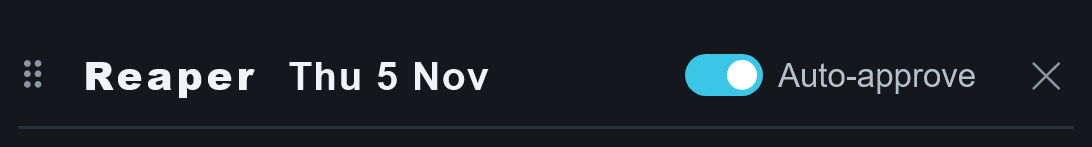
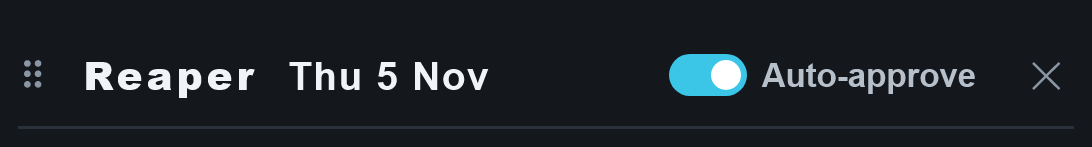
D1681: the Leave War's Auto-approve takes the Several people letters (his "as recommended")
The hold written with [CSS-FONT-INHERIT] is taken out: the switch follows .pp-sw's
written-out letters (the app's, 600; its own 11px kept). Re-walked at 1536 and 402x874,
24/24. Ruling D1681 recorded (leave-war), homes ui-contracts.md and bidpicker.css;
[LW-AUTOAPPROVE-LETTERS] archived; evidence, walk ledger, file map, handoff and the page.

Changed region(s): [[0.5916, 0.3537, 0.9029, 0.6531]]

diff --git a/raptor-port/docs/mock/2026-11-05-font-inherit/index.html b/raptor-port/docs/mock/2026-11-05-font-inherit/index.html
@@ -41,7 +41,7 @@ ul{margin:6px 0;padding-left:20px}
 </div>
 
 <div class="ask">
-<b class="q">One new question: the Leave War's "Auto-approve" switch</b>
+<b class="q">Answered: the Leave War's "Auto-approve" matches (D1681) — built</b>
 <p>While checking every place this style is used, I found it also draws the "Auto-approve" switch at the top of the Leave War's bid window. It wasn't on this page, so I kept it exactly as it looks today. Should it match the window's title (bold, the app's letters), or stay as it is?</p>
 <div class="pair"><figure><figcaption>Today (kept for now)</figcaption><img src="img/pc1536-lw-autoapprove-today.png" alt="Auto-approve today"></figure><figure><figcaption class="fix">If it matched</figcaption><img src="img/pc1536-lw-autoapprove-match.png" alt="Auto-approve matched"></figure></div>
 <p><b>My recommendation: match.</b> It then reads like the date beside it and like "Several people" on the Inputs page, which it was made to copy. It only gets 4px wider.</p>

diff --git a/raptor-port/src/leavewar/ui/bidpicker.css b/raptor-port/src/leavewar/ui/bidpicker.css
@@ -1909,9 +1909,7 @@
 /* "APPROVE WHAT I ENTER" AS THE APP'S SWITCH (change 8, D1302): the Inputs window's "Several people" switch, sized to the
    title bar's small words, standing before ✕ */
 .bidsheet-hd .bp-sw { margin-left: auto; min-height: 0; border: 0; background: none; padding: 0; gap: 5px; font-size: 11px; color: var(--ink-2); align-self: center; }
-/* held as it looked before [CSS-FONT-INHERIT] (D1680): `.pp-sw` now sets the app's letters at 600, which this switch
-   shares; that change to the Leave War's Auto-approve was not on his drawing, so its look is put to him first (D1625). */
-.bidsheet-hd .bp-sw { font-family: 'Inter Tight', sans-serif; font-weight: 400; }
+/* its letters are `.pp-sw`'s, the app's at 600, as the title beside it (owner D1681, 5 Nov 26); only the size is its own */
 .bidsheet-hd .bp-sw + .x { margin-left: 4px; }
 .bidsheet-hd .bp-sw:focus-visible { outline: 2px solid var(--accent); outline-offset: 2px; border-radius: 999px; }
 

diff --git a/DECISIONS.md b/DECISIONS.md
@@ -70,7 +70,7 @@ ruling, or an explicit no. **Not** ordinary task instructions ("run the tests", 
 | How we work | `.claude/rules/decisions/how-we-work.md` | in EVERY session | D1640, D1625, D1613, D1594, D1587, D1580, D1572, D1571, D1570, D1566, D1557, D1556, D1554, D1551, D1540, D1539, D1537, D1536, D1535, D1534, D1533, D1532, D1531, D1530, D1508, D1496, D1495, D1494, D1478, D1443, D1426, D1424, D1417, D1416, D1415, D1411, D1410, D1409, D1408, D1407, D1363, D1297, D1104, D1281, D1273, D1271, D1237, D1222, D1195, D1124, D1097, D1093, D1091, D1090, D1089, D1088, D1087, D1086, D1033, D1024, D994, D991, D976, D975, D974, D973, D972, D971, D970, D969, D942, D941, D921, D906, D905, D904, D903, D902, D886, D885, D884, D878, D874, D872, D871, D870, D869, D868, D867, D853, D852, D847, D846, D835, D832, D822, D821, D820, D819, D813, D812, D808, D802, D811, D790, D787, D785, D775, D774, D766, D765, D761, D754, D667, D625, D623, D611, D610, D608, D607, D602, D601, D596, D595, D590, D588, D568, D541, D499, D495, D493, D491, D490, D489, D487, D486, D485, D473, D466, D465, D453, D353, D351, D350, D390, D343, D302, D228, D203, D201, D106, D90, D162, D148, D147, D144, D143, D141, D140, D138, D137, D136, D151, D89, D87, D86, D84, D78, D73, D72, D70, D69, D68, D67, D63, D62, D60, D59, D58, D57, D56, D54, D53, D29, D23, D22, D17, D16, D14, D13, D12, D11, D10, D9, D8, D7, D6, D5, D4 |
 | Tracker | `.claude/rules/decisions/tracker.md` | when a Tracker file is read (its code, docs, scripts, evidence) | D1564, D1538, D1406, D1405, D1171, D1170, D1136, D1135, D1132, D1018, D1015, D1014, D1007, D1006, D1005, D1004, D1003, D1002, D992, D989, D988, D987, D986, D985, D984, D983, D982, D981, D980, D979, D924, D922, D899, D801, D566, D564, D560, D474, D464, D462, D463, D377, D376, D375, D374, D373, D372, D371, D370, D191, D158, D157, D134, D132, D131, D130, D129, D128, D127, D126, D124, D123, D122, D121, D120, D64 |
 | People & accounts | `.claude/rules/decisions/people-accounts.md` | when an accounts, sign-in, Admin → Users, Quals, one-door or posting file is read (D390) | D1547, D1546, D1510, D1108, D1105, D1102, D1101, D1100, D1129, D1128, D1110, D993, D937, D935, D329, D328, D327, D326, D325, D323, D322, D321, D320, D310, D309, D308, D307, D306, D304, D303, D300, D299, D298, D297, D296, D295, D294, D293, D292, D290, D289, D288, D287, D286, D285, D284, D283, D282, D281, D280, D229, D227, D226, D225, D224, D223, D222, D221, D220, D219, D216, D215, D214, D213, D211, D204, D200, D218, D166, D165, D149 |
-| Leave War | `.claude/rules/decisions/leave-war.md` | when a Leave War file is read (its code, docs, e2e, evidence) | D1639, D1634, D1630, D1629, D1584, D1569, D1568, D1565, D1555, D1563, D1561, D1559, D1553, D1552, D1550, D1549, D1548, D1545, D1544, D1543, D1542, D1541, D1525, D1524, D1521, D1520, D1519, D1517, D1516, D1515, D1514, D1513, D1512, D1511, D1506, D1505, D1504, D1503, D1502, D1501, D1500, D1499, D1498, D1497, D1493, D1492, D1491, D1490, D1489, D1488, D1487, D1486, D1485, D1484, D1483, D1482, D1481, D1480, D1479, D1477, D1476, D1475, D1474, D1473, D1472, D1471, D1470, D1469, D1468, D1467, D1466, D1465, D1464, D1463, D1462, D1461, D1460, D1449, D1448, D1447, D1446, D1445, D1444, D1441, D1440, D1439, D1438, D1437, D1435, D1434, D1433, D1432, D1431, D1430, D1429, D1428, D1427, D1423, D1422, D1421, D1420, D1404, D1401, D1400, D1399, D1398, D1397, D1395, D1394, D1393, D1392, D1391, D1390, D1389, D1388, D1387, D1382, D1381, D1380, D1379, D1378, D1375, D1371, D1370, D1365, D1364, D1362, D1361, D1360, D1359, D1358, D1357, D1356, D1355, D1354, D1353, D1352, D1351, D1350, D1349, D1348, D1347, D1346, D1345, D1344, D1343, D1341, D1340, D1339, D1334, D1333, D1332, D1331, D1330, D1329, D1328, D1327, D1326, D1323, D1321, D1322, D1319, D1320, D1318, D1316, D1317, D1315, D1314, D1313, D1312, D1311, D1309, D1308, D1307, D1306, D1302, D1301, D1299, D1296, D1295, D1294, D1292, D1291, D1290, D1289, D1288, D1287, D1286, D1285, D1284, D1283, D1282, D1279, D1278, D1277, D1276, D1275, D1274, D1272, D1270, D1269, D1268, D1267, D1266, D1265, D1264, D1263, D1259, D1258, D1257, D1256, D1255, D1254, D1253, D1252, D1251, D1250, D1249, D1248, D1247, D1246, D1245, D1244, D1243, D1242, D1241, D1240, D1239, D1238, D1236, D1235, D1234, D1233, D1232, D1231, D1230, D1229, D1228, D1227, D1226, D1225, D1224, D1223, D1221, D1220, D1219, D1218, D1217, D1216, D1215, D1214, D1213, D1212, D1211, D1210, D1209, D1208, D1206, D1205, D1204, D1203, D1202, D1201, D1200, D1199, D1198, D1197, D1196, D1194, D1193, D1192, D1191, D1190, D1189, D1188, D1187, D1186, D1185, D1184, D1183, D1182, D1181, D1180, D1178, D1177, D1176, D1175, D1174, D1173, D1172, D1169, D1168, D1167, D1166, D1165, D1164, D1163, D1162, D1161, D1160, D1159, D1158, D1157, D1155, D1154, D1153, D1152, D1151, D1150, D1149, D1148, D1147, D1146, D1145, D1144, D1143, D1142, D1141, D1140, D1117, D1019, D1016, D1001, D1000, D998, D892, D891, D890, D883, D882, D881, D827, D823, D805, D679, D678, D677, D676, D674, D673, D670, D669, D461, D460, D418, D352, D335, D334, D333, D332, D331, D266, D265, D264, D262, D160, D159 |
+| Leave War | `.claude/rules/decisions/leave-war.md` | when a Leave War file is read (its code, docs, e2e, evidence) | D1681, D1639, D1634, D1630, D1629, D1584, D1569, D1568, D1565, D1555, D1563, D1561, D1559, D1553, D1552, D1550, D1549, D1548, D1545, D1544, D1543, D1542, D1541, D1525, D1524, D1521, D1520, D1519, D1517, D1516, D1515, D1514, D1513, D1512, D1511, D1506, D1505, D1504, D1503, D1502, D1501, D1500, D1499, D1498, D1497, D1493, D1492, D1491, D1490, D1489, D1488, D1487, D1486, D1485, D1484, D1483, D1482, D1481, D1480, D1479, D1477, D1476, D1475, D1474, D1473, D1472, D1471, D1470, D1469, D1468, D1467, D1466, D1465, D1464, D1463, D1462, D1461, D1460, D1449, D1448, D1447, D1446, D1445, D1444, D1441, D1440, D1439, D1438, D1437, D1435, D1434, D1433, D1432, D1431, D1430, D1429, D1428, D1427, D1423, D1422, D1421, D1420, D1404, D1401, D1400, D1399, D1398, D1397, D1395, D1394, D1393, D1392, D1391, D1390, D1389, D1388, D1387, D1382, D1381, D1380, D1379, D1378, D1375, D1371, D1370, D1365, D1364, D1362, D1361, D1360, D1359, D1358, D1357, D1356, D1355, D1354, D1353, D1352, D1351, D1350, D1349, D1348, D1347, D1346, D1345, D1344, D1343, D1341, D1340, D1339, D1334, D1333, D1332, D1331, D1330, D1329, D1328, D1327, D1326, D1323, D1321, D1322, D1319, D1320, D1318, D1316, D1317, D1315, D1314, D1313, D1312, D1311, D1309, D1308, D1307, D1306, D1302, D1301, D1299, D1296, D1295, D1294, D1292, D1291, D1290, D1289, D1288, D1287, D1286, D1285, D1284, D1283, D1282, D1279, D1278, D1277, D1276, D1275, D1274, D1272, D1270, D1269, D1268, D1267, D1266, D1265, D1264, D1263, D1259, D1258, D1257, D1256, D1255, D1254, D1253, D1252, D1251, D1250, D1249, D1248, D1247, D1246, D1245, D1244, D1243, D1242, D1241, D1240, D1239, D1238, D1236, D1235, D1234, D1233, D1232, D1231, D1230, D1229, D1228, D1227, D1226, D1225, D1224, D1223, D1221, D1220, D1219, D1218, D1217, D1216, D1215, D1214, D1213, D1212, D1211, D1210, D1209, D1208, D1206, D1205, D1204, D1203, D1202, D1201, D1200, D1199, D1198, D1197, D1196, D1194, D1193, D1192, D1191, D1190, D1189, D1188, D1187, D1186, D1185, D1184, D1183, D1182, D1181, D1180, D1178, D1177, D1176, D1175, D1174, D1173, D1172, D1169, D1168, D1167, D1166, D1165, D1164, D1163, D1162, D1161, D1160, D1159, D1158, D1157, D1155, D1154, D1153, D1152, D1151, D1150, D1149, D1148, D1147, D1146, D1145, D1144, D1143, D1142, D1141, D1140, D1117, D1019, D1016, D1001, D1000, D998, D892, D891, D890, D883, D882, D881, D827, D823, D805, D679, D678, D677, D676, D674, D673, D670, D669, D461, D460, D418, D352, D335, D334, D333, D332, D331, D266, D265, D264, D262, D160, D159 |
 | Scheduler & amendments | `.claude/rules/decisions/scheduler.md` | when a scheduler, board, engine, amendment or storage file is read | D1644, D1621, D1620, D1592, D1589, D1588, D1586, D1577, D1573, D1529, D1528, D1527, D1526, D1522, D1442, D1412, D1383, D1107, D1106, D1099, D1098, D1131, D1130, D1121, D1120, D1119, D1118, D1116, D1115, D1114, D1113, D1112, D1111, D1109, D1085, D1084, D1083, D1081, D1080, D1067, D1066, D1065, D1064, D1063, D1062, D1061, D1060, D1048, D1047, D1046, D1045, D1044, D1043, D1042, D1041, D1040, D1039, D1038, D1037, D1036, D1035, D1034, D1032, D1031, D1030, D1029, D1028, D1027, D1026, D1021, D1020, D1017, D1013, D1012, D1011, D1010, D1009, D997, D995, D958, D957, D955, D950, D949, D947, D945, D940, D938, D936, D933, D932, D931, D929, D928, D925, D901, D877, D860, D845, D844, D842, D841, D840, D839, D838, D837, D836, D834, D833, D831, D830, D828, D825, D824, D815, D809, D807, D806, D800, D797, D796, D776, D769, D778, D767, D762, D760, D759, D757, D756, D755, D753, D751, D748, D747, D743, D742, D740, D739, D737, D736, D735, D734, D733, D731, D717, D714, D713, D711, D710, D706, D703, D702, D686, D682, D716, D668, D665, D663, D661, D660, D645, D644, D642, D641, D640, D637, D636, D634, D605, D603, D600, D599, D598, D597, D594, D562, D561, D558, D555, D554, D553, D551, D550, D548, D546, D544, D537, D535, D532, D531, D530, D529, D527, D526, D525, D524, D523, D522, D521, D520, D519, D518, D517, D516, D514, D513, D512, D511, D510, D509, D507, D506, D505, D504, D503, D502, D501, D500, D498, D497, D488, D482, D481, D479, D478, D475, D472, D471, D469, D454, D452, D451, D450, D356, D355, D367, D363, D362, D361, D360, D346, D345, D344, D340, D339, D338, D337, D279, D278, D277, D276, D275, D274, D272, D271, D270, D263, D212, D189, D188, D187, D186, D185, D184, D183, D179, D178, D177, D176, D175, D174, D172, D171, D170, D169, D168, D167, D119, D118, D117, D116, D114, D113, D111, D110, D109, D107, D105, D103, D102, D101, D100, D99, D98, D97, D96, D95, D94, D93, D92, D91, D161, D77, D66, D65, D51, D50, D47, D45, D44, D41, D40, D39, D38, D37, D36, D33, D27 |
 | The Inputs pages | `.claude/rules/decisions/inputs.md` | when a file of the Inputs list or calendar, the SANS calendar, the Calendar window, or an input's own window or card is read | D1624, D1623, D1622, D1585, D1583, D1582, D1581, D1578, D1562, D1560, D1413, D1396, D1386, D1385, D1384, D1377, D1376, D1374, D1373, D1372, D1369, D1368, D1367, D1310, D1305, D1304, D1300, D1298, D1293, D1280, D1179, D1139, D1137, D1125, D1123, D1096, D1095, D1025, D1023, D1022, D999, D996, D977, D968, D967, D965, D963, D961, D960, D959, D953, D952, D948, D927, D920, D919, D917, D916, D910, D909, D908, D900, D897, D893, D879, D861, D854, D851, D849, D848, D795, D792, D786, D777, D773, D771, D770, D768, D763, D732, D729, D728, D727, D725, D724, D723, D722, D721, D720, D719, D712, D709, D707, D705, D704, D701, D698, D697, D696, D695, D694, D693, D692, D691, D689, D688, D687, D685, D684, D683, D681, D675, D671, D664, D659, D658, D657, D656, D655, D653, D652, D651, D650, D649, D648, D647, D646, D639, D638, D635, D633, D632, D631, D630, D629, D628, D627, D626, D624, D622, D621, D620, D619, D618, D617, D584, D583, D582, D581, D577, D576, D574, D572, D570, D569, D547, D364 |
 | OIL | `.claude/rules/decisions/oil.md` | when an OIL, Leave War, placeholder-puck or publishing file is read | D1579, D1094, D1008, D978, D923, D865, D863, D862, D818, D816, D814, D804, D793, D783, D782, D781, D606, D592, D591, D470, D402, D401, D400, D261, D260, D163, D142, D82, D81, D80, D79, D52, D49, D48, D43, D42, D35, D32, D31, D28, D26, D25, D24, D21, D19, D15, D2, D1 |

diff --git a/raptor-port/docs/walk-ledger.md b/raptor-port/docs/walk-ledger.md
@@ -357,4 +357,4 @@ record informs the choice, it does not make it.
 | 2026-11-04 | The page names beside TALON, ☰ where they do not fit, a phone held sideways always ☰ ([TOPBAR-NAMES-BESIDE-TALON] D1641–D1643; `claude/topbar-names-build`, pull request 634) | C, E | WALK; the host alone, one script (S1–S10: six desktop widths × nine pages, the phone sideways in Chromium and WebKit with a picture after each tap, upright, an iPad, what is held under the bar, the role switch, the keys, live resizes, wider letters calibrated), 138 checks; two break tests red | not counted | 0 | 0 | 3 (the walk script's own: the passing "Saving…" note counted as a row twice; Quals' scrolling heading measured in place of its frozen copy) | the mock-up, before the build: on this PC's letters the names already fit at every desktop size — only his iPhone's wider letters wrap them, so the build measures the bar | `docs/handpass/2026-11-04-topbar-names.md` |
 | 2026-11-05 | A member on Edit Schedule and a guest's saves ([MEMBER-EDITPAGE-CHECK] [GUEST-SAVE-WARNING]; `claude/member-guest-checks`, the night's job 3) | B, A | FULL; the host's scripted probe in two rounds (press everything with every storage write counted; round 2 a worklist with the admin's positive control, after the code read found round 1 short), one Sonnet walker for what a person sees at both sizes with the plain-user rounds of a member and a guest, the failed save, and a re-walk of the fix on its own build | not counted | 2 (a stranger's failed access request is told it was sent — parked Q1; a member unticks his own Scheduler appointment — parked Q2) | 0 | 5 (the walker's: wrong selectors, a leftover window, a pick equal to the value, the wrong input edited; the host's: an Undo loop that never ended) | the security read: a waiting person's sign-in name in the change log every member reads — fixed red-first; the code read: 8 gaps in the probe's evidence, answered by round 2 | `handpass/2026-11-05-member-guest.md` |
 | 2026-11-05 | The member / guest build of his morning answers ([ACCESS-WAIT-LOOK] [SAVEBAND-LOOK] [GUEST-SAVE-WARNING] [MEMBER-SCHED-TICK]; `claude/member-guest-checks`) | E, B, H | FULL with a security read; the host's scripted look beside the drawings (12 checks), the drawing check (two part lists, four records), a fresh Opus scenario design (20 scenarios), two Sonnet walkers (A: the access screens and the guest page; B: the band in the app, the OIL bar, Quals), the fixes re-walked by the walkers' own scripts | not counted | 4 (a phone on its side: the request form's and the pass's top out of reach; a 14-letter callsign broken mid-name; the OIL bar's Answer OIL off the screen on the board's Desktop layout panned — older; the pass's spacing off its drawing — the drawing check) | 1 (the pass ticks Request sent under a failed save — put to him) | 4 (a re-sign-in landing on the guest page, as built; the guest page's Saving note; the OIL tracker's inset band; the cold start not reachable) | the code read: a stale contract, a fit that missed a width change, three untrue comments; the security read: none | `handpass/2026-11-05-member-guest-build.md` |
-| 2026-11-05 | Nine dropped font lines written out, eight places on the schedule and the Inputs page ([CSS-FONT-INHERIT] D1680; `claude/css-font-inherit-look`) | E | WALK; the host alone, one script (five windows the drawing drew, the schedule's door to the input window, a plain-user round, the Leave War's switch held), 24 checks at 1536 and an iPhone's 402 | not counted | 1 (the roll-call: the Leave War's Auto-approve shares the style and was not on his drawing — held, put to him) | 0 | 2 (the walk script's own: the schedule's window frame; a reason set without typing did not reach the save) | the drawing's measures re-measured on the build, all equal | `handpass/2026-11-05-font-inherit.md` |
+| 2026-11-05 | Nine dropped font lines written out, eight places on the schedule and the Inputs page ([CSS-FONT-INHERIT] D1680; `claude/css-font-inherit-look`) | E | WALK; the host alone, one script (five windows the drawing drew, the schedule's door to the input window, a plain-user round, the Leave War's switch held), 24 checks at 1536 and an iPhone's 402 | not counted | 1 (the roll-call: the Leave War's Auto-approve shares the style and was not on his drawing — held, put to him; matched on his D1681, re-walked) | 0 | 2 (the walk script's own: the schedule's window frame; a reason set without typing did not reach the save) | the drawing's measures re-measured on the build, all equal | `handpass/2026-11-05-font-inherit.md` |

diff --git a/OUTSTANDING.md b/OUTSTANDING.md
@@ -100,7 +100,6 @@ Every item was checked against git and the code on 18 Oct 26. **Re-order this li
 - [INP-CAL-CLICK-BEHIND-NEW] — on the Inputs and SANS calendars a date clicked behind a new input's window lights as picked while the window keeps its date (his D1298); his choice of what it does first.
 - [LW-READS-OWED-1024] — left: design lessons 49, 50 and 52 reworded to what he said (the fix worded in the reader's file), and D1297's sweep of earlier evidence sheets with its fresh reader.
 - [CSS-FONT-INHERIT] — BUILT 5 Nov 26 as drawn (D1680) on `claude/css-font-inherit-look`: the nine font lines written out, a test that refuses the form; walked at both sizes; waiting on his look and "merge live", then archive.
-- [LW-AUTOAPPROVE-LETTERS] — the Leave War bid windows' Auto-approve shares the "Several people" look; [CSS-FONT-INHERIT] would have made its words the app's letters, semi-bold — held as it was until he picks (pictured, a question to him).
 - [CSS-WRAPPER-GUARD] — the other half of [CSS-FONT-INHERIT]'s guard: a check that no rule is lost after a page's wrapper closes; the bid sheet's stylesheet has about 200 unscoped rules after its wrapper, apparently on purpose, so the check needs its rule worked out first.
 - [LW-BID-BUBBLE] — the bubble after a bid: his question, waiting (the pick-look page's Q3); redrawn with D1313, D1314 in place before it is put to him again.
 - [INP-CARD-COLUMNS] — on the Inputs list's cards LATE, "No document" and the hours in three columns, card to card (his D1305, pick A — D1310): to build with the next Inputs batch.
@@ -2225,18 +2224,10 @@ typewriter face — fixed there, 0cca37160). Eight more, older: `raptor-port/src
 the weight meant — a look change on screens he uses daily, so a before / after picture first (D541). **Place:** with the
 next Inputs or schedule batch (D490).
 **Drawn 5 Nov 26** (nine lines: eight places on screen and one dead rule, `.ic-pop input`): `raptor-port/docs/mock/2026-11-05-font-inherit/`, put to him on https://claude.ai/artifact/LJLWFHi7gUBJ24mmmWBCS1 — waiting on his answer.
-**Built 5 Nov 26** on `claude/css-font-inherit-look` (his D1680, "build it as drawn"): the nine lines written out; the font half of the guard is `raptor-port/src/ui/font-inherit-css.test.ts` (red on `main`, green on the fix); the wrapper half is filed apart, [CSS-WRAPPER-GUARD]; the Leave War's Auto-approve, which shares `.pp-sw`, held as it was ([LW-AUTOAPPROVE-LETTERS]). Walk: `raptor-port/docs/handpass/2026-11-05-font-inherit.md`, 24/24.
+**Built 5 Nov 26** on `claude/css-font-inherit-look` (his D1680, "build it as drawn"): the nine lines written out; the font half of the guard is `raptor-port/src/ui/font-inherit-css.test.ts` (red on `main`, green on the fix); the wrapper half is filed apart, [CSS-WRAPPER-GUARD]; the Leave War's Auto-approve, which shares `.pp-sw`, held, then matched on his "as recommended" (D1681, [LW-AUTOAPPROVE-LETTERS] closed). Walk: `raptor-port/docs/handpass/2026-11-05-font-inherit.md`, 24/24.
 **A guard with it (691, 704):** a structural test over the stylesheets — no rule after a scoping wrapper's close in a
 file that wraps itself (`#page-leavewar { … }`; a block appended after it lost silently, twice, 24 and 25 Oct 26), and no
 `font:` shorthand naming `inherit`. A rule that only a comment states is broken again.
-### [LW-AUTOAPPROVE-LETTERS] The Leave War's Auto-approve letters (found 5 Nov 26, [CSS-FONT-INHERIT]'s roll-call)
-The admin's Auto-approve switch at the top of the Leave War's bid windows (BidPicker, SelectSheet) is drawn with the Inputs
-window's "Several people" style (`.pp-sw`, its own `.bidsheet-hd .bp-sw` beside it). Written out, that style's letters would
-have made Auto-approve the app's letters at 600 (today a fallback face, 400; 97 → 101 wide). Not on his drawing, so it is held
-as it was in `raptor-port/src/leavewar/ui/bidpicker.css` (D1625). **Question to him:** match the title's letters (semi-bold,
-as the bid window's date beside it) or keep. Pictures: `raptor-port/docs/img/handpass/2026-11-05-font-inherit/` (the walk's
-`*-leavewar-switch.png` is today's look). **Place:** with the next Leave War batch (D490).
-
 ### [CSS-WRAPPER-GUARD] A rule lost after a page wrapper's close (filed 5 Nov 26 from [CSS-FONT-INHERIT]'s guard)
 The guard [CSS-FONT-INHERIT] named had two halves; the font half is built. The other: in a stylesheet that wraps itself in its
 page (`#page-leavewar { … }`), a block appended after the wrapper's close lands unscoped and was lost twice (24 and 25 Oct 26).

diff --git a/.claude/decisions-full/leave-war.md b/.claude/decisions-full/leave-war.md
@@ -8,6 +8,7 @@ change tail. Newest first; each row keeps the date it was recorded.
 
 | # | Date | His ruling, in his words where short enough | What it means | Where it lives now |
 |---|---|---|---|---|
+| D1681 | 5 Nov 26 | *"as recommended"* — to the page's question on the Leave War's Auto-approve switch (recommended: match) | **The Leave War bid windows' Auto-approve switch takes the app's letters, semi-bold, as the window's title and the Inputs window's "Several people" do.** The agent's readings: the hold written in the [CSS-FONT-INHERIT] build is taken out, so the switch follows `.pp-sw`'s written-out letters (11px, 600, its own size kept); it is about 4px wider. | `raptor-port/docs/ui-contracts.md` (§Letters in boxes and buttons, D1681); `raptor-port/src/leavewar/ui/bidpicker.css` |
 | D1639 | 4 Nov 26 | *"both as recommended"* — the closing report of 4 Nov 26 (night), point 2 | **The number pad's date stays where it is built: the drawing check's 2.5px "lower" is how it measured the date (the drawing marked the whole line, the build the words), and laid over the drawing the words sit in the same place.** The drawing check keeps it as a difference he chose to keep (`scripts/drawcheck/specs/lwsf.mjs`). | `raptor-port/docs/ui-contracts.md` (the touch number pad — D1639); `raptor-port/scripts/drawcheck/specs/lwsf.mjs` |
 | D1634 | 4 Nov 26 | *"Both as recommended"* — the 4 Nov 26 page (https://claude.ai/artifact/Q4rDCbkPAhoSwPuohXhDR6, version 3), question 2 | **On a phone narrower than about 400 wide the number pad's figure box sits under the date, the pad's top line one row taller, as built; on his iPhone (402) it stays beside the date; the weekday is kept.** The box is three digits wide from the start, so the keys never move while typing (walk S7 at 375 and 320, 4 Nov 26). | `raptor-port/docs/ui-contracts.md` (the touch number pad — D1634); filed as [LW-PAD-SHOWS-FIGURE] |
 | D1630 | 4 Nov 26 | *"All as recommended"* — the 4 Nov 26 mock-up page (https://claude.ai/artifact/Q4rDCbkPAhoSwPuohXhDR6, version 2), question 1, after his question *"how do I make it intuitive such that the user knows that they don't need to tap but whatever number they type changes the number"* | **The number pad's figure box shows it is being typed in, as a phone's text box does: when the pad opens the figure is highlighted (the next key replaces it), and once a key is pressed a cyan typing line follows the figure, blinking, still for less motion; with nothing typed the line stands alone; the grid's cell shows the highlight only.** As drawn on the page (p1c pictures), with the one change the page recommended: the cell over the grid, about 20 wide on a phone, takes the highlight but not the typing line, which crowded its figure. Replaces D1629's reading of a faint dash for an empty box. ‹ › open the next day with its figure highlighted again. No words added, nothing moves, no tap needed (D1629's reading that a tap on the box does nothing stands). | `raptor-port/docs/ui-contracts.md` (the touch number pad — D1630); filed as [LW-PAD-SHOWS-FIGURE] |

diff --git a/raptor-port/docs/file-map.md b/raptor-port/docs/file-map.md
@@ -1,6 +1,6 @@
 # The file map — where each source file lives and what it does
 
-5 Nov 26 on `claude/css-font-inherit-look` ([CSS-FONT-INHERIT], D1680 — nine dropped font lines written out; evidence `docs/handpass/2026-11-05-font-inherit.md`). **New:** `src/ui/font-inherit-css.test.ts` (no `font:` shorthand under src/ names `inherit` beside a size or weight), `scripts/handpass/font-inherit-walk.mjs` (the walk: every place the nine rules draw, both sizes, the Leave War's Auto-approve held), `docs/mock/2026-11-05-font-inherit/draw.mjs` (the drawing: today beside the fix, written into the app's own rules in place). **Changed:** `src/ui/scheduler/07-inputs-calendar.css`, `12-schedule-editing.css`, `14-input-editors.css`, `25-inputs-calendar.css` (the nine lines), `src/leavewar/ui/bidpicker.css` (the Auto-approve switch held at its old letters). Pictures `docs/img/handpass/2026-11-05-font-inherit/`.
+5 Nov 26 on `claude/css-font-inherit-look` ([CSS-FONT-INHERIT], D1680 — nine dropped font lines written out; evidence `docs/handpass/2026-11-05-font-inherit.md`). **New:** `src/ui/font-inherit-css.test.ts` (no `font:` shorthand under src/ names `inherit` beside a size or weight), `scripts/handpass/font-inherit-walk.mjs` (the walk: every place the nine rules draw, both sizes, the Leave War's Auto-approve matched, D1681), `docs/mock/2026-11-05-font-inherit/draw.mjs` (the drawing: today beside the fix, written into the app's own rules in place). **Changed:** `src/ui/scheduler/07-inputs-calendar.css`, `12-schedule-editing.css`, `14-input-editors.css`, `25-inputs-calendar.css` (the nine lines), `src/leavewar/ui/bidpicker.css` (a comment: the Auto-approve switch takes `.pp-sw`'s letters, D1681). Pictures `docs/img/handpass/2026-11-05-font-inherit/`.
 
 5 Nov 26 on `claude/member-guest-checks`, the build of his morning answers ([ACCESS-WAIT-LOOK] D1650/D1656, [SAVEBAND-LOOK] D1655, [GUEST-SAVE-WARNING] D1657, [MEMBER-SCHED-TICK] D1651; evidence `docs/handpass/2026-11-05-member-guest-build.md`). **Changed:** `src/ui/AccessScreen.tsx` (the waiting screen is the pass; every access screen carries the failed-save band across its top), `src/ui/Login.tsx` and `src/ui/GuestApp.tsx` (the band), `src/ui/SaveStatus.tsx` (`SplitWords`, the strip's words; `SaveBand screen`), `src/ui/OilWaitSheet.tsx` (the OIL bar's words in the strip), `src/ui/scheduler/17-save-status.css`, `src/ui/scheduler/00-foundation-login.css` (`.acc-pass`, `.pass-*`), `src/engine/qualcols.ts` (`SCHED_KEY`), `src/state/perms.ts` (`mayTickScheduler`; the commit gate's own-row list gains the Scheduler tick), `src/state/quals-write.ts` (`SCHED_ADMIN_ONLY`), `src/ui/QualsPage.tsx` (the member's own Scheduler cell reads only). **New:** `scripts/handpass/mgb-look.mjs` (the host's look at the built screens beside their drawings, both sizes, a failed save forced).
 

diff --git a/HANDOFF.md b/HANDOFF.md
@@ -31,10 +31,10 @@ the later merge keeps both (D78).
 <!-- now:claude/css-font-inherit-look -->
 ### `claude/css-font-inherit-look` — [CSS-FONT-INHERIT] BUILT on his "build it as drawn" (D1680, 5 Nov 26); waiting on his look and "merge live"
 - **Built:** the nine dropped font lines written out (`ui/scheduler/07-…`, `12-…`, `14-…`, `25-…css`); the font half of the item's guard, `src/ui/font-inherit-css.test.ts` (red on `main`, all nine named; green now). Drawing `raptor-port/docs/mock/2026-11-05-font-inherit/`, page https://claude.ai/artifact/LJLWFHi7gUBJ24mmmWBCS1.
-- **Found by the roll-call:** the Leave War bid windows' Auto-approve shares `.pp-sw`; not on his drawing, so HELD at its old letters (`leavewar/ui/bidpicker.css`, `.bidsheet-hd .bp-sw`) and put to him — [LW-AUTOAPPROVE-LETTERS] (pictures on the page). The wrapper half of the guard flags ~200 deliberate-looking rules after `bidpicker.css`'s wrapper — filed apart, [CSS-WRAPPER-GUARD].
+- **Found by the roll-call:** the Leave War bid windows' Auto-approve shares `.pp-sw`; not on his drawing, so held and put to him; his "as recommended" (D1681) — it matches, re-walked ([LW-AUTOAPPROVE-LETTERS] archived). The wrapper half of the guard flags ~200 deliberate-looking rules after `bidpicker.css`'s wrapper — filed apart, [CSS-WRAPPER-GUARD].
 - **Checked:** WALK tier; `scripts/handpass/font-inherit-walk.mjs` 24/24 at 1536 Chromium and 402×874 WebKit, no page errors (evidence `raptor-port/docs/handpass/2026-11-05-font-inherit.md`, walk-ledger row); code check clean; doc check OK; GitHub's run of the pull request is the full gate set (D1086).
-- **Numbers:** D1680 taken (next free in this range D1681); no lessons; observation 810.
-- **Next:** his look → "merge live" → closing records (archive [CSS-FONT-INHERIT]); his answer on Auto-approve's letters.
+- **Numbers:** D1680, D1681 taken (next free in this range D1682); no lessons; observation 810.
+- **Next:** his look → "merge live" → closing records (archive [CSS-FONT-INHERIT]); nothing else open here.
 <!-- /now -->
 ## Next, in order
 

diff --git a/raptor-port/docs/handpass/2026-11-05-font-inherit.md b/raptor-port/docs/handpass/2026-11-05-font-inherit.md
@@ -20,7 +20,7 @@ Edit Schedule's week, the board). Questions 5, 6: no new control or surface.
 | `.cxedit-name` | the CX box's Edit list | yes, both sizes |
 | `.inped-body select, input` | the input window from every door — the Inputs calendar, Edit Schedule's week (time boxes included) | yes: Inputs, member, schedule; both sizes |
 | `.inped-v` | a member's fixed name (and the SANS panel's fixed kind, the same rule) | yes: member, both sizes |
-| `.pp-sw` | "Several people"; **also the Leave War bid windows' Auto-approve** (`.bp-sw`, BidPicker and SelectSheet) | Inputs: yes. Leave War: **must not change, because** it was not on his drawing (D1625) — held at its old look by `.bidsheet-hd .bp-sw` in `leavewar/ui/bidpicker.css`, checked unchanged; put to him as its own question |
+| `.pp-sw` | "Several people"; **also the Leave War bid windows' Auto-approve** (`.bp-sw`, BidPicker and SelectSheet) | Inputs: yes. Leave War: first HELD (not on his drawing, D1625) and put to him with pictures; his "as recommended" (D1681) — it matches; walked, both sizes |
 | `.pp-all` | the groups' All in Several people | yes, both sizes |
 | `.inputsday .ic-note .ic-pkadd` | the + on a note with people | yes, both sizes |
 | `.inputsday .ic-newnote-ppl` | + people on a new note | yes, both sizes |
@@ -41,6 +41,8 @@ after each tap (D1281 — for the dense screens' pinned cells, none here).
 - The Inputs page: open a day, add a note with people — the "+" and "+ people" in bold.
 - An input's window: the boxes and "Several people" in the app's letters.
 - The Scheduler Board: CX on a line — the reason box, and Edit's list.
+
+**After D1681** the hold is taken out and the switch re-walked: 11px 600 in the app's letters at both sizes, one line on the phone.
 
 Walk: 24/24 PASS (2 sizes × 12), the walk script in place of a walker; 2 walk-script faults of its own fixed (the
 schedule's window frame name; a reason set without typing did not reach the save).

diff --git a/OUTSTANDING-ARCHIVE.md b/OUTSTANDING-ARCHIVE.md
@@ -7740,3 +7740,14 @@ reads only, as Management does, refused at the Quals write and the commit gate (
 security read (D1411). **His answer, 5 Nov 26 (D1651): yes.** Pictures `raptor-port/docs/mock/2026-11-05-member-guest/img/Q2-quals-today-desk.png`, `Q2-quals-proposed-desk.png`,
 `Q2-quals-proposed-phone.png`. Evidence `raptor-port/docs/handpass/2026-11-05-member-guest.md`. **Built 5 Nov 26** (`claude/member-guest-checks`, `af8be973e`): `perms.ts mayTickScheduler`, refused at the Quals screen ("Only an admin can appoint a scheduler" — the mock-up's words), the Quals write and the commit gate; red first; evidence `raptor-port/docs/handpass/2026-11-05-member-guest-build.md`. **Place:** that branch's merge.
 
+
+*Moved here 2026-11-05 by backlog-archive.mjs ([LW-AUTOAPPROVE-LETTERS]). Forward facts: `raptor-port/docs/ui-contracts.md`.*
+
+### [LW-AUTOAPPROVE-LETTERS] The Leave War's Auto-approve letters (found 5 Nov 26, [CSS-FONT-INHERIT]'s roll-call)
+The admin's Auto-approve switch at the top of the Leave War's bid windows (BidPicker, SelectSheet) is drawn with the Inputs
+window's "Several people" style (`.pp-sw`, its own `.bidsheet-hd .bp-sw` beside it). Written out, that style's letters would
+have made Auto-approve the app's letters at 600 (today a fallback face, 400; 97 → 101 wide). Not on his drawing, so it is held
+as it was in `raptor-port/src/leavewar/ui/bidpicker.css` (D1625). **Question to him:** match the title's letters (semi-bold,
+as the bid window's date beside it) or keep. Pictures: `raptor-port/docs/img/handpass/2026-11-05-font-inherit/` (the walk's
+`*-leavewar-switch.png` is today's look). **Place:** with the next Leave War batch (D490).
+

diff --git a/.claude/rules/decisions/leave-war.md b/.claude/rules/decisions/leave-war.md
@@ -56,6 +56,7 @@ rules — `raptor-port/docs/superpowers/specs/2026-09-20-one-absence-behaviour-r
 
 | # | Date | The rule |
 |---|---|---|
+| D1681 | 5 Nov 26 | The Leave War bid windows' Auto-approve switch takes the app's letters, semi-bold, as the window's title and the Inputs window's "Several people" do. |
 | D1639 | 4 Nov 26 | The number pad's date stays where it is built: the drawing check's 2.5px "lower" is how it measured the date (the drawing marked the whole line, the build the words), and laid over the drawing the words sit in the same place. |
 | D1634 | 4 Nov 26 | On a phone narrower than about 400 wide the number pad's figure box sits under the date, the pad's top line one row taller, as built; on his iPhone (402) it stays beside the date; the weekday is kept. |
 | D1630 | 4 Nov 26 | The number pad's figure box shows it is being typed in, as a phone's text box does: when the pad opens the figure is highlighted (the next key replaces it), and once a key is pressed a cyan typing line follows the figure, blinking, still for less motion; with nothing typed the line stands alone; the grid's cell shows the highlight only. |

diff --git a/raptor-port/docs/ui-contracts.md b/raptor-port/docs/ui-contracts.md
@@ -34,8 +34,8 @@ weight beside it (and its line height where it had one). The nine places that ha
 and its reasons list, an input's own window (its boxes and selects, a member's fixed name, Several people, the groups'
 All), the opened day's note + and + people, and the old day pop-up's boxes, drawn nowhere now — were fixed as drawn
 (`docs/mock/2026-11-05-font-inherit/`), and a stylesheet test refuses the shorthand form from now on (`src/ui/font-inherit-css.test.ts`). The Leave War's
-bid windows' Auto-approve switch shares the "Several people" look and is held at its old letters until he rules on it
-(`leavewar/ui/bidpicker.css`, `.bidsheet-hd .bp-sw`).
+bid windows' Auto-approve switch shares the "Several people" look and takes the same letters (owner D1681, 5 Nov 26 —
+"as recommended"; its own 11px kept, `leavewar/ui/bidpicker.css`).
 
 ## Rendering
 
